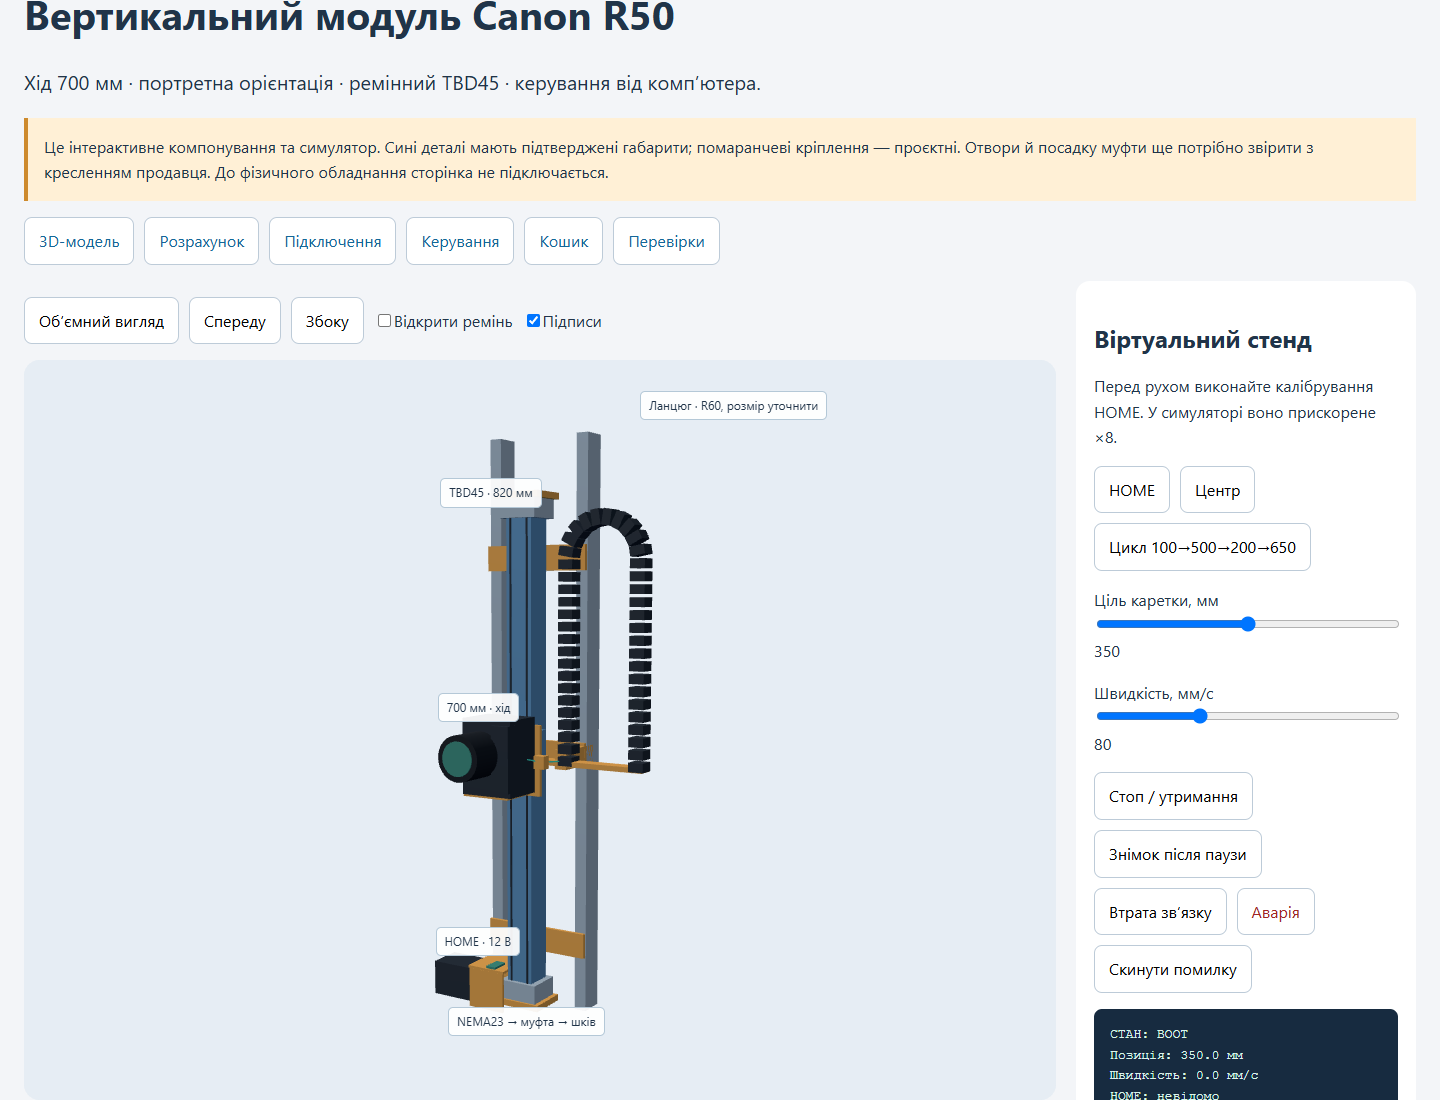
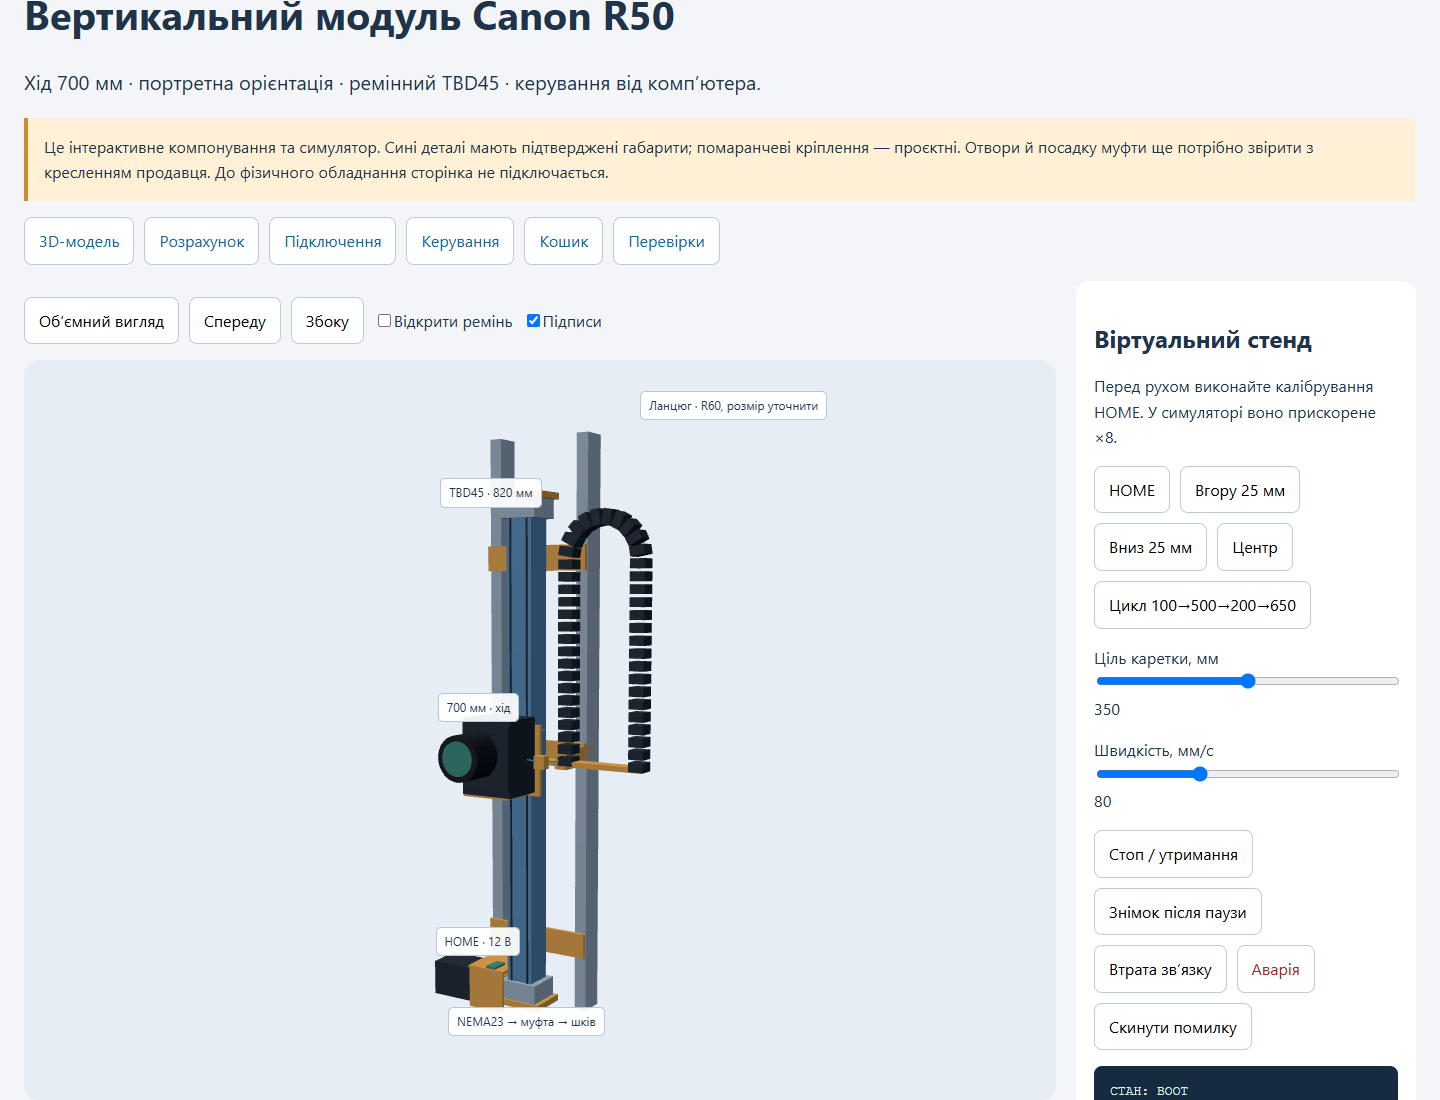
Add manual lift jog controls and keep report generation repeatable

diff --git a/camera-module/index.html b/camera-module/index.html
@@ -1,1 +1,1 @@
-<!doctype html><html lang="uk"><head><meta charset="utf-8"><meta name="viewport" content="width=device-width,initial-scale=1"><title>Canon R50 · модуль 700 мм</title><link rel="stylesheet" href="module.css"></head><body><header><a href="../index.html">← Фотобудка Славутич</a><span>Інженерний огляд · 20.09.2026</span></header><main><p class="eyebrow">ОКРЕМИЙ ВУЗОЛ · ВЕРСІЯ ДЛЯ УЗГОДЖЕННЯ</p><h1>Вертикальний модуль Canon R50</h1><p class="lead">Хід 700 мм · портретна орієнтація · ремінний TBD45 · керування від комп’ютера.</p><div class="notice">Це інтерактивне компонування та симулятор. Сині деталі мають підтверджені габарити; помаранчеві кріплення — проєктні. Отвори й посадку муфти ще потрібно звірити з кресленням продавця. До фізичного обладнання сторінка не підключається.</div><nav><a href="#visual">3D-модель</a><a href="#review">Розрахунок</a><a href="#wiring">Підключення</a><a href="#logic">Керування</a><a href="#basket">Кошик</a><a href="#acceptance">Перевірки</a></nav><section id="visual"><div class="layout"><div><div class="toolbar"><button data-view="iso">Об’ємний вигляд</button><button data-view="front">Спереду</button><button data-view="side">Збоку</button><label><input type="checkbox" id="transparent">Відкрити ремінь</label><label><input type="checkbox" id="labels" checked>Підписи</label></div><div id="scene"></div><p class="muted">Потягніть для обертання, колесо — наближення. Двічі натисніть деталь, щоб побачити її призначення.</p><div id="selected">Оберіть камеру, каретку, муфту, двигун або кріплення.</div></div><aside><h2>Віртуальний стенд</h2><p>Перед рухом виконайте калібрування HOME. У симуляторі воно прискорене ×8.</p><div class="toolbar"><button id="home">HOME</button><button id="center">Центр</button><button id="cycle">Цикл 100→500→200→650</button></div><label>Ціль каретки, мм <input id="position" type="range" min="20" max="680" value="350"><output id="target">350</output></label><label>Швидкість, мм/с <input id="speed" type="range" min="20" max="200" value="80"><output id="speed-value">80</output></label><div class="toolbar"><button id="stop">Стоп / утримання</button><button id="photo">Знімок після паузи</button><button id="timeout">Втрата зв’язку</button><button id="estop" class="danger">Аварія</button><button id="reset">Скинути помилку</button></div><pre id="status"></pre><p id="feedback" role="status">Стан BOOT: координата ще не калібрована.</p><p class="muted">«Аварія» заморожує лише демонстрацію. Реальна каретка без механічного захисту може впасти. Показана позиція — розрахункова, не вимір енкодером.</p><h3>Межі та габарити</h3><ul><li>Напрямна: 45×45×820 мм.</li><li>Каретка: 104×90×26 мм.</li><li>Робоча зона: 20–680 мм після HOME.</li><li>Зона кабелеукладача: орієнтовно до 950 мм у висоту.</li><li>Радіус згину ланцюга: кандидат 60 мм.</li></ul></aside></div></section><p><a href="review.html">Відкрити інженерний огляд для друку</a> · <a href="bom.json" download>Завантажити кошик JSON</a></p><div id="engineering"></div></main><script src="../vendor/three.min.js"></script><script src="motion.js"></script><script src="model.js"></script><script src="engineering.js"></script></body></html>
+<!doctype html><html lang="uk"><head><meta charset="utf-8"><meta name="viewport" content="width=device-width,initial-scale=1"><title>Canon R50 · модуль 700 мм</title><link rel="stylesheet" href="module.css"></head><body><header><a href="../index.html">← Фотобудка Славутич</a><span>Інженерний огляд · 20.09.2026</span></header><main><p class="eyebrow">ОКРЕМИЙ ВУЗОЛ · ВЕРСІЯ ДЛЯ УЗГОДЖЕННЯ</p><h1>Вертикальний модуль Canon R50</h1><p class="lead">Хід 700 мм · портретна орієнтація · ремінний TBD45 · керування від комп’ютера.</p><div class="notice">Це інтерактивне компонування та симулятор. Сині деталі мають підтверджені габарити; помаранчеві кріплення — проєктні. Отвори й посадку муфти ще потрібно звірити з кресленням продавця. До фізичного обладнання сторінка не підключається.</div><nav><a href="#visual">3D-модель</a><a href="#review">Розрахунок</a><a href="#wiring">Підключення</a><a href="#logic">Керування</a><a href="#basket">Кошик</a><a href="#acceptance">Перевірки</a></nav><section id="visual"><div class="layout"><div><div class="toolbar"><button data-view="iso">Об’ємний вигляд</button><button data-view="front">Спереду</button><button data-view="side">Збоку</button><label><input type="checkbox" id="transparent">Відкрити ремінь</label><label><input type="checkbox" id="labels" checked>Підписи</label></div><div id="scene"></div><p class="muted">Потягніть для обертання, колесо — наближення. Двічі натисніть деталь, щоб побачити її призначення.</p><div id="selected">Оберіть камеру, каретку, муфту, двигун або кріплення.</div></div><aside><h2>Віртуальний стенд</h2><p>Перед рухом виконайте калібрування HOME. У симуляторі воно прискорене ×8.</p><div class="toolbar"><button id="home">HOME</button><button id="up">Вгору 25 мм</button><button id="down">Вниз 25 мм</button><button id="center">Центр</button><button id="cycle">Цикл 100→500→200→650</button></div><label>Ціль каретки, мм <input id="position" type="range" min="20" max="680" value="350"><output id="target">350</output></label><label>Швидкість, мм/с <input id="speed" type="range" min="20" max="200" value="80"><output id="speed-value">80</output></label><div class="toolbar"><button id="stop">Стоп / утримання</button><button id="photo">Знімок після паузи</button><button id="timeout">Втрата зв’язку</button><button id="estop" class="danger">Аварія</button><button id="reset">Скинути помилку</button></div><pre id="status"></pre><p id="feedback" role="status">Стан BOOT: координата ще не калібрована.</p><p class="muted">«Аварія» заморожує лише демонстрацію. Реальна каретка без механічного захисту може впасти. Показана позиція — розрахункова, не вимір енкодером.</p><h3>Межі та габарити</h3><ul><li>Напрямна: 45×45×820 мм.</li><li>Каретка: 104×90×26 мм.</li><li>Робоча зона: 20–680 мм після HOME.</li><li>Зона кабелеукладача: орієнтовно до 950 мм у висоту.</li><li>Радіус згину ланцюга: кандидат 60 мм.</li></ul></aside></div></section><p><a href="review.html">Відкрити інженерний огляд для друку</a> · <a href="bom.json" download>Завантажити кошик JSON</a></p><div id="engineering"></div></main><script src="../vendor/three.min.js"></script><script src="motion.js"></script><script src="model.js"></script><script src="engineering.js"></script></body></html>

diff --git a/camera-module/model.js b/camera-module/model.js
@@ -32,6 +32,7 @@ function updateChain(pos){const startY=410,endY=60+pos,R=60,L=800,bend=(L-Math.P
 label('700 мм · хід',-175,500,0);label('TBD45 · 820 мм',-165,850,0);label('Ланцюг · R60, розмір уточнити',210,950,30);label('NEMA23 → муфта → шків',-160,-40,0);label('HOME · 12 В',-170,105,20);
 const axis=new AxisDemo();window.moduleDemo={axis,scene,all};let cycle=false,seq=[100,500,200,650,100],seqIndex=0,last=performance.now(),completed=0;
 const $=id=>document.getElementById(id),message=s=>$('feedback').textContent=s;
+$('up').onclick=()=>{cycle=false;if(!axis.move(axis.position+25))message('Спочатку HOME; після аварії — скидання та HOME.');};$('down').onclick=()=>{cycle=false;if(!axis.move(axis.position-25))message('Спочатку HOME; після аварії — скидання та HOME.');};
 $('home').onclick=()=>{cycle=false;axis.home();message('Подвійний підхід HOME → від’їзд → повільний підхід → паркування.');};$('position').oninput=e=>{$('target').textContent=e.target.value;cycle=false;if(!axis.move(+e.target.value))message('Спочатку HOME; після аварії — скидання та HOME.');};$('speed').oninput=e=>{axis.maxV=+e.target.value;$('speed-value').textContent=e.target.value;};$('center').onclick=()=>axis.move(350);$('cycle').onclick=()=>{if(!axis.homed)return message('Спочатку HOME.');cycle=true;seqIndex=0;axis.move(seq[0]);};$('stop').onclick=()=>{cycle=false;axis.stop();};$('timeout').onclick=()=>{cycle=false;axis.stop('COMM_TIMEOUT');message('Зупинка з уповільненням; автоматичного спуску немає.');};$('estop').onclick=()=>{cycle=false;axis.estop();message('Демонстрація зупинена. Реальний E-STOP потребує уловлювача/гальма.');};$('reset').onclick=()=>axis.reset();$('photo').onclick=()=>message(axis.photo()?'Симульований знімок; реальна камера не підключена.':'Потрібні HOME, повна зупинка й пауза 400 мс.');
 $('transparent').onchange=e=>{housing.material=blue.clone();housing.material.transparent=e.target.checked;housing.material.opacity=e.target.checked?.15:1;housing.material.depthWrite=!e.target.checked;};document.querySelectorAll('[data-view]').forEach(b=>b.onclick=()=>{az=b.dataset.view==='front'?0:b.dataset.view==='side'?Math.PI/2:.55;el=.12;radius=1800;});
 let down;renderer.domElement.onpointerdown=e=>{down=[e.clientX,e.clientY];renderer.domElement.setPointerCapture(e.pointerId);};renderer.domElement.onpointermove=e=>{if(!down)return;az+=(e.clientX-down[0])*.006;el=Math.max(-1.2,Math.min(1.2,el+(e.clientY-down[1])*.004));down=[e.clientX,e.clientY];};renderer.domElement.onpointerup=()=>down=null;renderer.domElement.ondblclick=e=>{const r=renderer.domElement.getBoundingClientRect(),ray=new T.Raycaster();ray.setFromCamera(new T.Vector2((e.clientX-r.left)/r.width*2-1,-(e.clientY-r.top)/r.height*2+1),camera);const hit=ray.intersectObjects(all)[0];if(hit)$('selected').textContent=hit.object.userData.name+' — '+hit.object.userData.note;};renderer.domElement.addEventListener('wheel',e=>{e.preventDefault();radius=Math.max(450,Math.min(3500,radius*Math.exp(e.deltaY*.001)));},{passive:false});new ResizeObserver(()=>{renderer.setSize(host.clientWidth,host.clientHeight);camera.aspect=host.clientWidth/host.clientHeight;camera.updateProjectionMatrix();}).observe(host);
